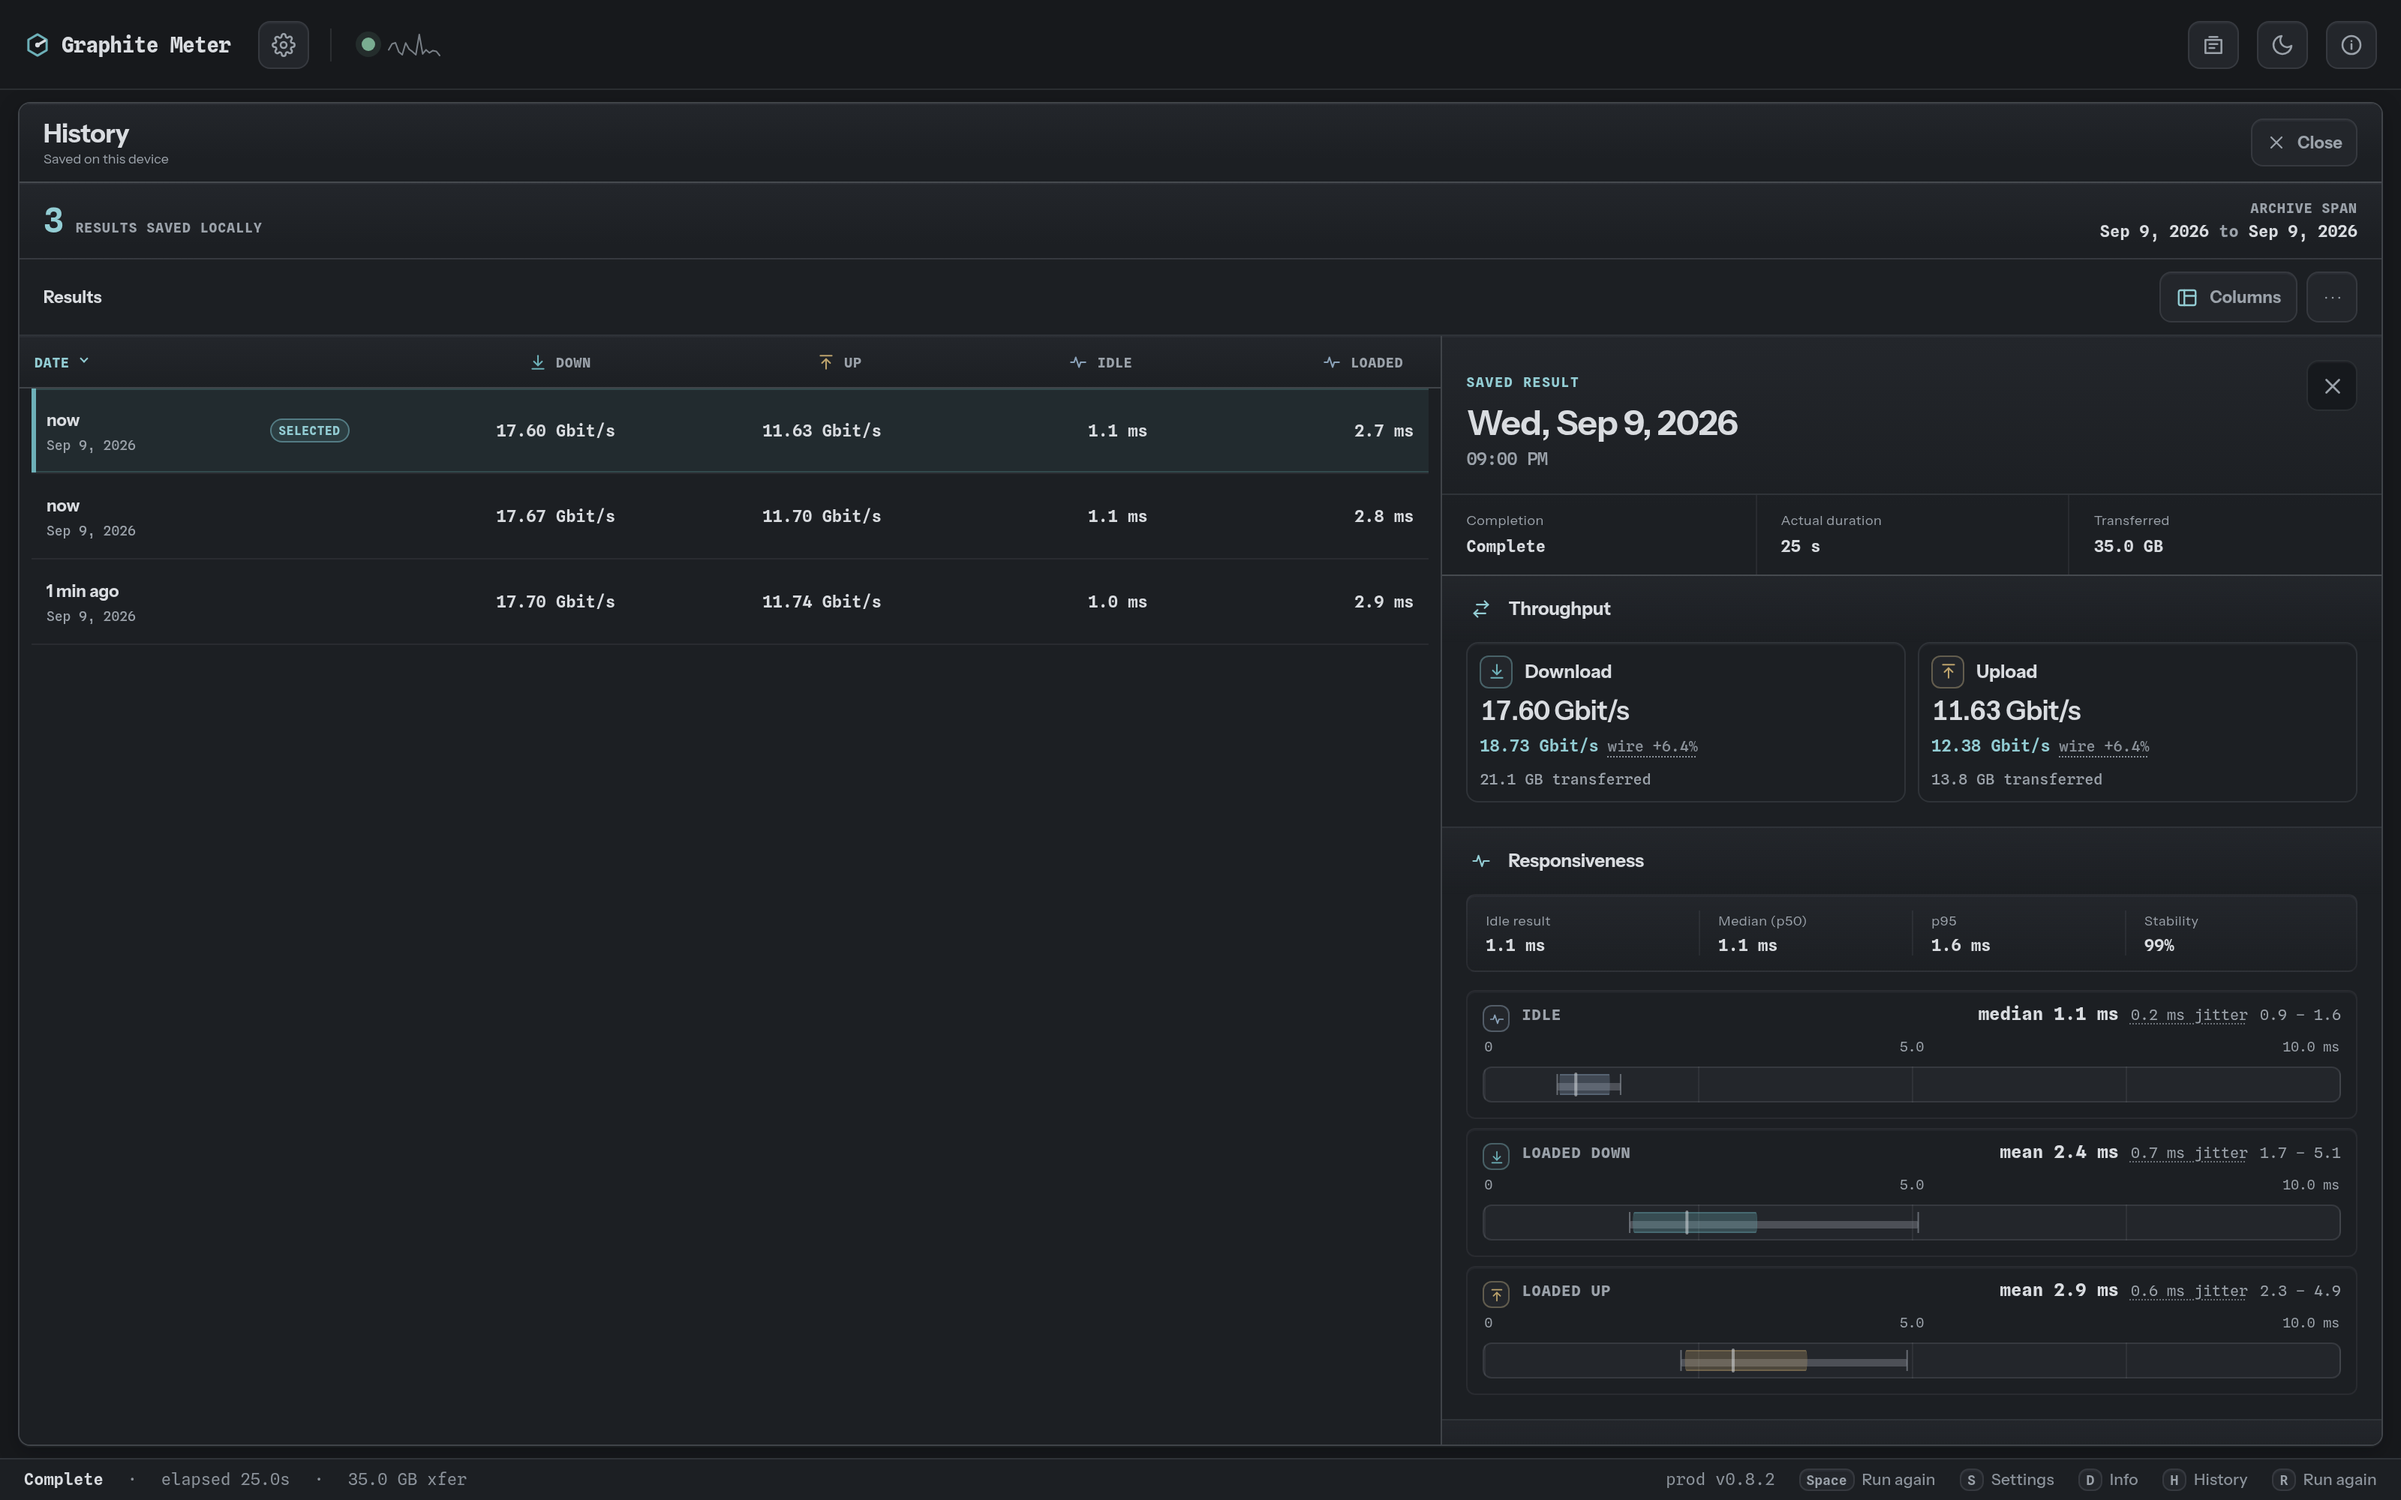
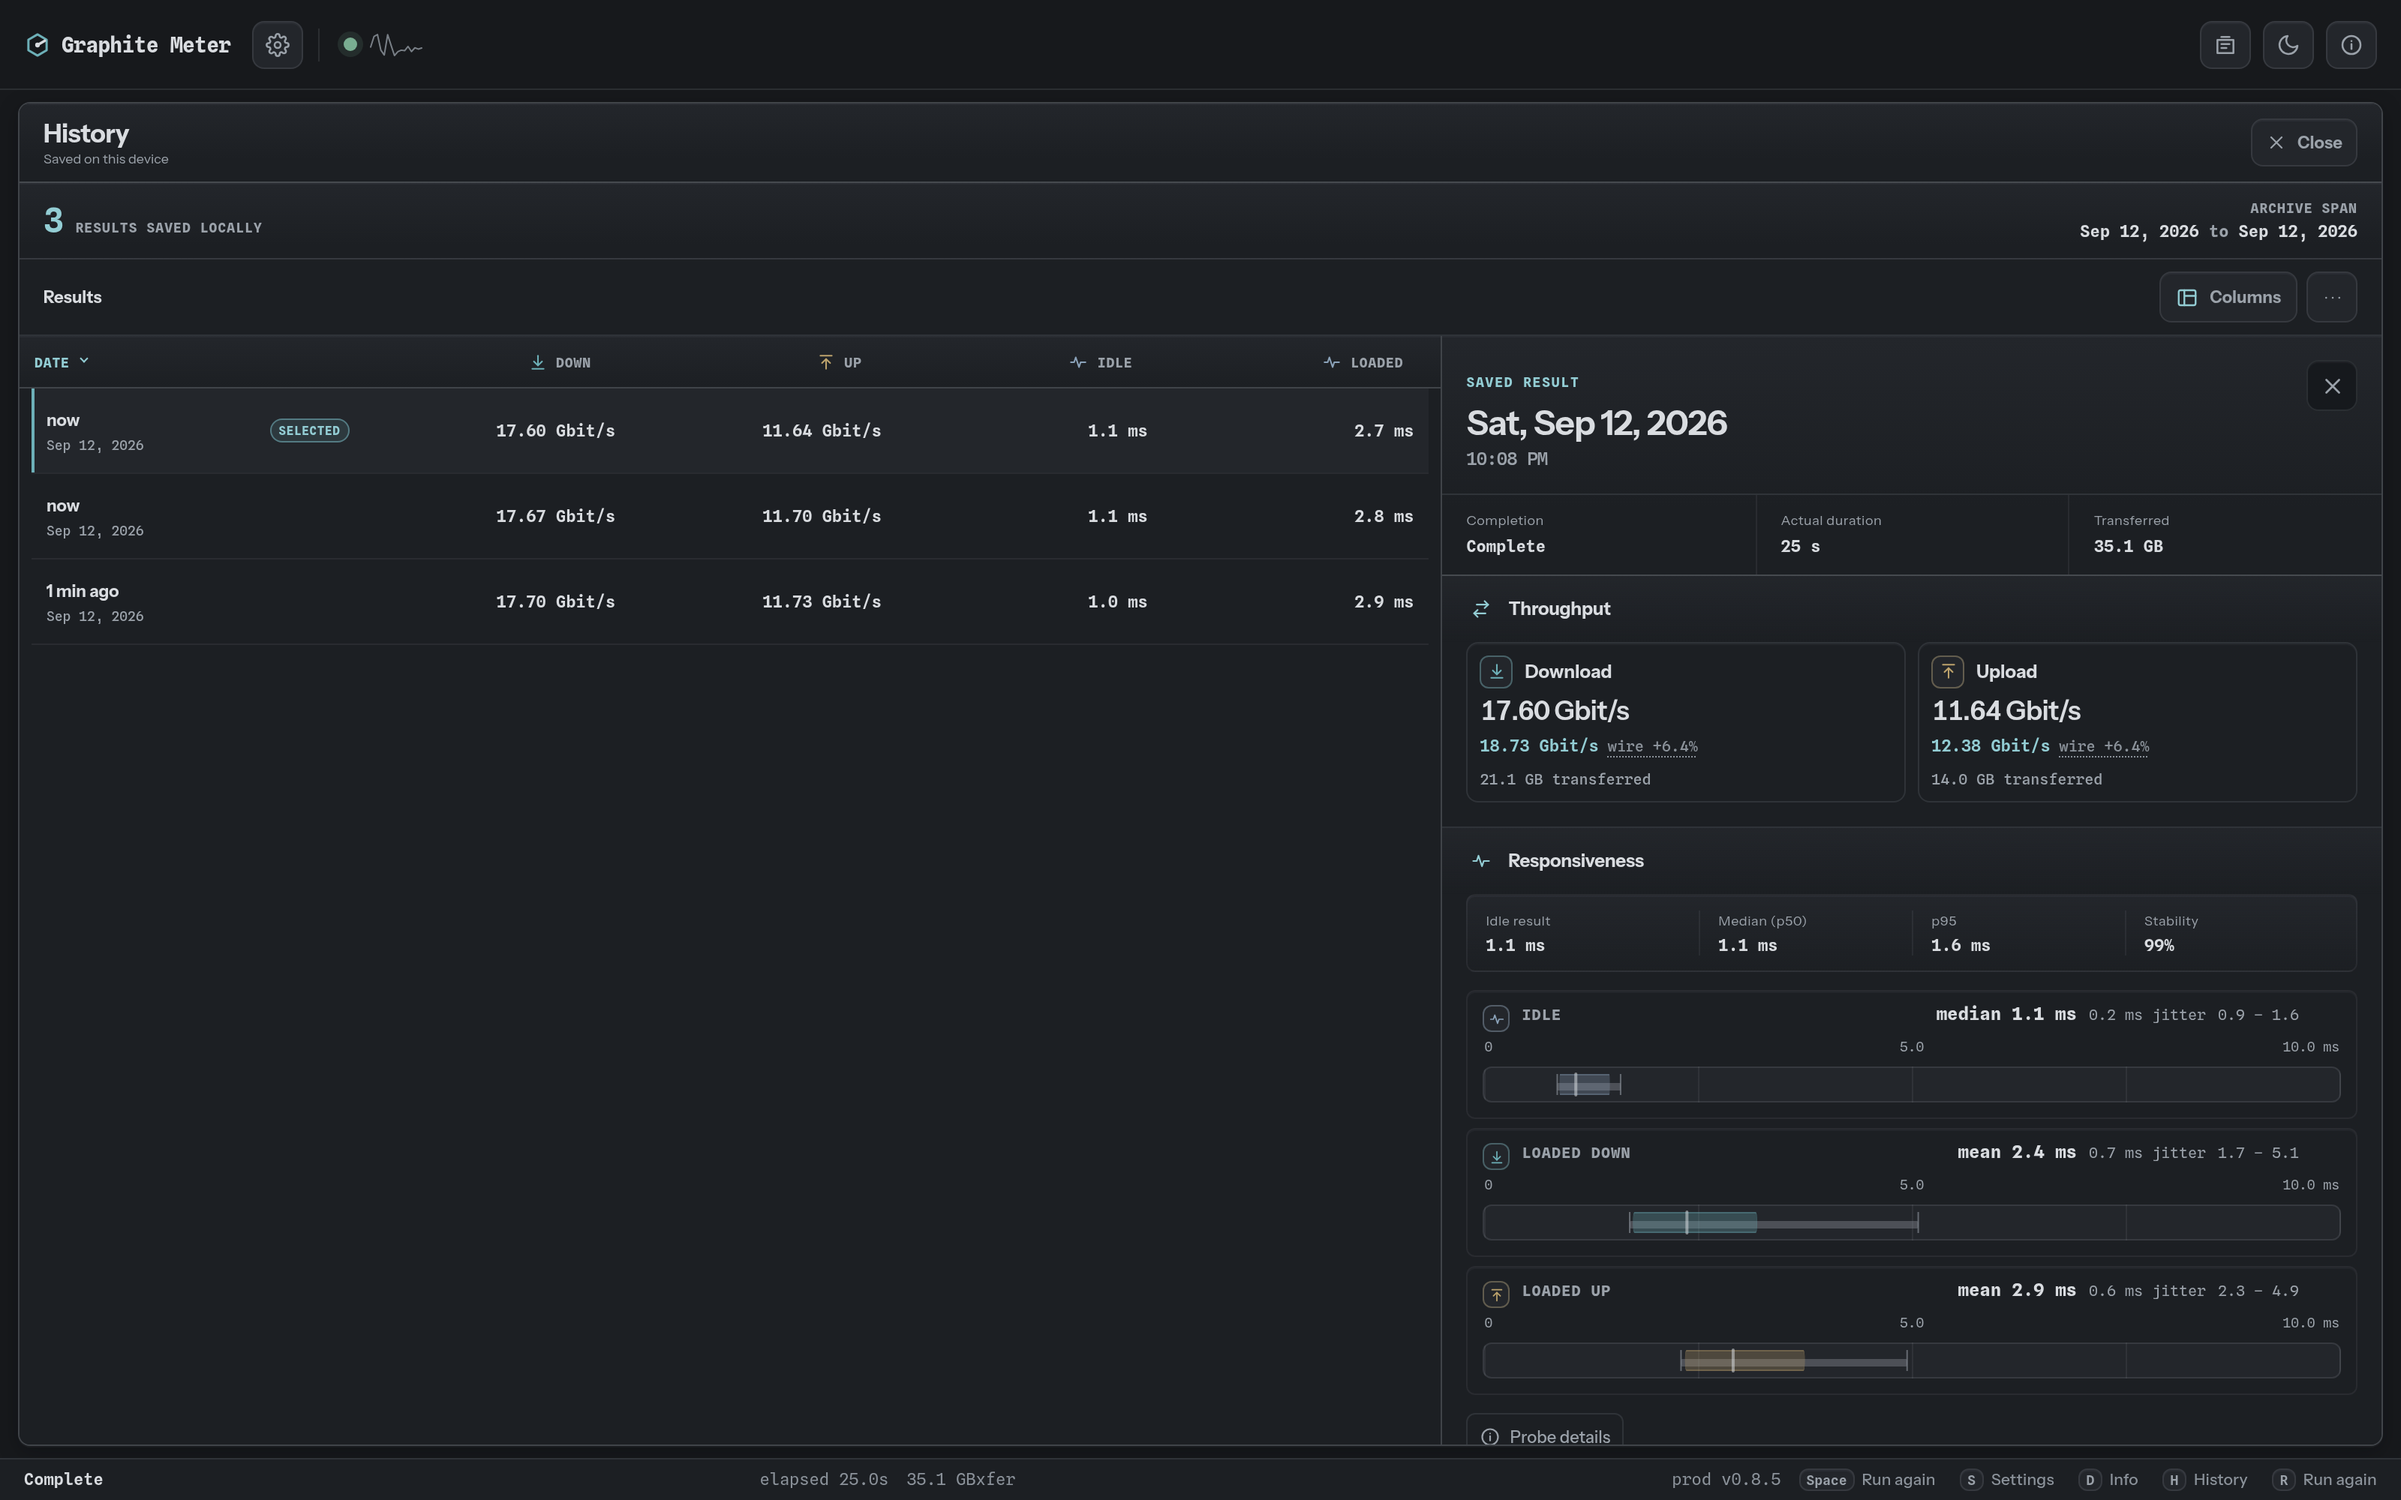
Refresh README and browser gallery for v0.8.5

diff --git a/docs/SCREENSHOTS.md b/docs/SCREENSHOTS.md
@@ -2,7 +2,7 @@
 
 [Project overview](../README.md) · [Quick deployment](DEPLOYMENT.md#fast-local-deployment) · [What the numbers mean](MEASUREMENTS.md)
 
-The **v0.8.2** browser client, from the completed test to saved results. These captures use a
+The **v0.8.5** browser client, from the completed test to saved results. These captures use a
 simulated deployment and illustrative data throughout; they are not performance benchmarks.
 
 ## The completed test
@@ -10,14 +10,22 @@ simulated deployment and illustrative data throughout; they are not performance 
 Throughput and responsiveness share the screen. The timeline retains the transfer ramp-up and
 variation, while separate latency profiles show idle, download, and upload populations.
 
-<img src="assets/desktop.png" alt="v0.8.2 completed desktop test with cyan download and gold upload curves, three latency distributions, and throughput summaries" width="1080">
+<img src="assets/desktop.png" alt="v0.8.5 completed desktop test with cyan download and gold upload curves, three latency distributions, and throughput summaries" width="1080">
 
 ## Settings, beside your results
 
 Choose connection paths, stage timings, units, and display options. The dock keeps the instrument
-visible while you adjust the test; on smaller screens, the same settings open as a panel.
+visible while you adjust the test; on smaller screens, the same settings open as a flyout.
 
 <img src="assets/settings.png" alt="Settings dock with connection and timing choices beside the completed test" width="1080">
+
+## Make room for both panels
+
+On a wide desktop, keep Settings and Endpoint info open together. Resize each panel to leave the
+space you want for the meter. A narrower window shows the most recent panel; widening it restores
+both panels and their saved widths.
+
+<img src="assets/workspace.png" alt="v0.8.5 wide desktop with resizable Settings and Endpoint info docks open together" width="1080">
 
 ## Know which path you measured
 
@@ -30,15 +38,24 @@ what the browser observed from what reached the server, which is useful when a p
 
 Opt into saving completed summaries, then browse and sort results without replacing the live
 meter. The selected result keeps throughput, latency distributions, and probe evidence together.
+Multi-server runs have separate throughput and latency selectors, while secondary server metadata
+stays under **Servers & run context**.
 
 <img src="assets/history.png" alt="Device-local history with illustrative saved runs and a selected result's measurement details" width="1080">
 
-History is optional and limited to 2,000 summaries per browser.
+History is optional and limited to 2,000 summaries per browser. On a phone, the selected result
+opens within the list with a restrained selection marker; the bottom status bar stays at the
+viewport edge as the workspace scrolls.
+
+<p align="center">
+<img src="assets/mobile-history.png" alt="v0.8.5 phone history with the selected result expanded and a fixed bottom status bar" width="320">
+</p>
 
 ## Light and dark, desktop and phone
 
 The interface adapts to the available width. On a phone, the gauge, run controls, latency profiles,
-and results form a vertical reading order; additional content remains available by scrolling.
+and results form a vertical reading order. Compact stage cards keep their labels readable, while
+the workspace scrolls between the anchored toolbar and status bar.
 
 <img src="assets/light.png" alt="The same completed test in Graphite Meter's light theme" width="1080">
 
@@ -53,15 +70,15 @@ latency percentiles, and probe timeouts.
 
 <img src="assets/tui.png" alt="v0.8.2 native terminal client with simulated download, upload, and latency results" width="1080">
 
-This capture renders the current native view's ANSI output with illustrative results and the
+The retained v0.8.2 capture renders the native view's ANSI output with illustrative results and the
 client version set to `0.8.2`. It uses the shipped layout and colors; the terminal frame is simulated.
 [Download and run the native client](../README.md#native-terminal-client).
 
 ## Capture details
 
-- Production UI built with `VERSION=0.8.2`, `GM_CLIENT_BUILD_PROFILE=prod`, and the explicitly
-  enabled dummy backend. The application footer reads `prod v0.8.2`.
-- Source UI: v0.8.2 result-gauge refresh. Chromium engine: `152.0.7977.82`.
+- Production UI built with `VERSION=0.8.5`, `GM_CLIENT_BUILD_PROFILE=prod`, and the explicitly
+  enabled dummy backend. The application footer reads `prod v0.8.5`.
+- Source UI: v0.8.5 responsive workspace and history refinement. Chromium engine: `152.0.7977.82`.
 - Simulated server: **Graphite Meter demo**, **40 GbE lab · simulated**, using a reserved example
   hostname and documentation IP address.
 - Three stages only: idle latency, download, and upload. Synthetic receiver observations include

diff --git a/README.md b/README.md
@@ -13,7 +13,7 @@ One Go server, a responsive web interface, and a native terminal client.
 
 <img src="docs/assets/hero.png" alt="Graphite Meter completed results on desktop with an overlapping phone companion" width="1080">
 
-<sub>v0.8.2 · simulated measurements · <a href="docs/SCREENSHOTS.md">screenshot gallery</a></sub>
+<sub>v0.8.5 · simulated measurements · <a href="docs/SCREENSHOTS.md">screenshot gallery</a></sub>
 
 </div>
 
@@ -65,7 +65,8 @@ for controlled performance testing.
 ## Browser client
 
 Run a test from a phone or desktop without installing a client. The gauge, timeline, and latency
-profiles keep transfer speed and responsiveness visible together.
+profiles keep transfer speed and responsiveness visible together. **v0.8.5 refines the workspace**
+with compact phone controls, clearer saved results, and persistent desktop panels.
 
 - **Flexible tests:** stage toggles, duration presets or custom timings, automatic or fixed stream
   counts, and optional early completion when a stage stabilizes.
@@ -73,10 +74,32 @@ profiles keep transfer speed and responsiveness visible together.
   and per-server contributions in result details. Automatic paths resolve separately for each server.
 - **Display choices:** light and dark themes, decimal or binary bits/bytes, gauge scaling, and
   keyboard or touch chart inspection with reduced-motion support.
+- **Phone layout:** compact phase cards keep names and status readable. The toolbar stays within
+  reach, and the bottom status bar keeps the current phase and remaining time visible while the
+  workspace scrolls.
+- **Wide desktop workspace:** open Settings and Endpoint info side by side with the meter. Resize
+  each panel to suit your monitor; your widths and open panels survive a narrower window and reload.
 - **Local history:** optionally save up to 2,000 completed summaries on your device. Sort and
-  inspect past runs while keeping the live meter available.
+  inspect past runs while the live test continues, then return to it from the toolbar.
 
-See the [gallery](docs/SCREENSHOTS.md) for settings, endpoint details, history, and mobile views.
+<img src="docs/assets/workspace.png" alt="Graphite Meter v0.8.5 with Settings and Endpoint info open beside the completed meter on a wide desktop" width="1080">
+
+<p align="center"><sub>v0.8.5 · simulated measurements · resizable desktop panels</sub></p>
+
+### Read a saved result
+
+For multi-server runs, choose **Throughput results** to inspect the combined run or one server's
+contribution. Choose **Latency source** separately to compare that server's idle and loaded responsiveness. The two
+controls preserve their own selection, and a server without latency measurements stays explicitly
+unmeasured.
+
+Latency notes and probe details explain timeouts, interrupted probes, and server timing. Secondary
+server and path metadata sits under **Servers & run context**, so the measurements remain the first thing you see.
+History is stored in the current browser; it is not a server-side archive or a recording of every
+raw sample.
+
+See the [gallery](docs/SCREENSHOTS.md) for light and dark themes, mobile controls, saved results,
+and endpoint details.
 
 ## Native terminal client
 
@@ -105,7 +128,7 @@ Press **s** in setup for the server chooser, **l** to change the displayed laten
 
 [All terminal flags](docs/DEPLOYMENT.md#native-terminal-client) ·
 [Build the client from source](docs/DEVELOPMENT.md#development-commands) ·
-[Upgrading from 0.6](docs/DEPLOYMENT.md#upgrading-to-07)
+[Upgrading to 0.8](docs/DEPLOYMENT.md#upgrading-to-08)
 
 ## Documentation
 
